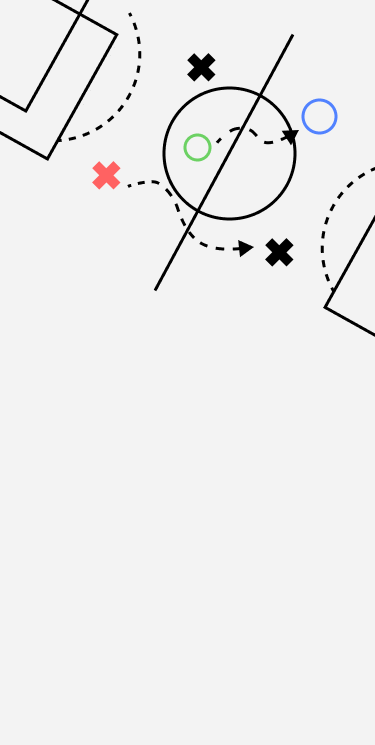
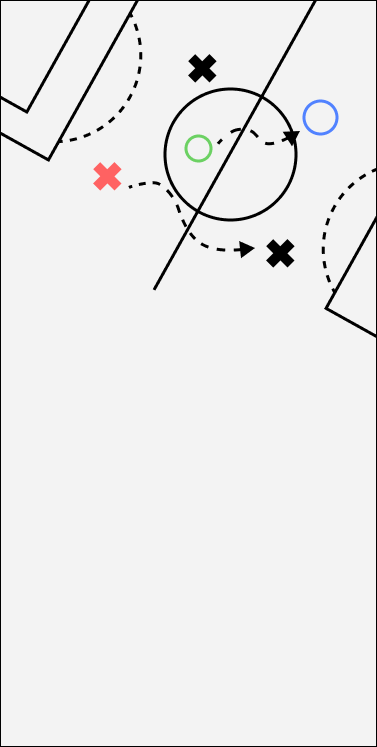
♻ Tactics, Mypage 폴더링 추가 및 세부 수정(35)

diff --git a/screens/MyPagePackage/MyPage.js b/screens/MyPagePackage/MyPage.js
@@ -1,0 +1,140 @@
+import { StatusBar } from "expo-status-bar";
+import BackGround from '../../assets/Back2.png';
+import PrivacyButtonImage from "../../assets/Button5.png";
+import SettingButtonImage from "../../assets/Button6.png";
+import FriendButtonImage from "../../assets/Button7.png";
+import HelpButtonImage from "../../assets/Button8.png";
+import React from "react";
+import styled from "styled-components";
+
+import { Text, View, StyleSheet, Image, TouchableOpacity } from "react-native";
+
+const Container = styled.View`
+  flex: 1;
+  flex-direction: column;
+`;
+
+const BackGroundView = styled.View`
+  ${StyleSheet.absoluteFillObject};
+  z-index: -1;
+`;
+
+const FirstView = styled.View`
+  flex: 1;
+`;
+
+const SecondView = styled.View`
+  flex: 1;
+  flex-direction: column;
+  align-items: center;
+  justify-content: center;
+  margin-top: 200px;
+`;
+
+const ThirdView = styled.View`
+  flex: 1;
+  flex-direction: row;
+  align-items: center;
+  justify-content: center;
+  margin-top : 120px;
+`;
+
+const FourthView = styled.View`
+  flex: 1;
+  flex-direction: row;
+  align-items: center;
+`;
+
+const ForButtonInThirdView = styled.View`
+  flex-direction: column;
+  align-items: center;
+  justify-content: center;
+`;
+
+const TitleText = styled.Text`
+  font-size: 50px;
+  font-weight: 900;
+  color: black;
+  text-decoration-line: underline;
+`;
+
+const BackGroundImage = styled.Image`
+  width: 100%;
+  height: 100%;
+`;
+
+const PrivacyAndSettingButton = styled.TouchableOpacity`
+  padding-vertical: 15px;
+  padding-horizontal: 15px;
+  border-radius: 10px;
+  width: 150px;
+  height: 150px;
+  margin: -10px;
+`;
+
+const FriendAndSettingButton = styled.TouchableOpacity`
+  padding-vertical: 15px;
+  padding-horizontal: 15px;
+  border-radius: 10px;
+  width: 150px;
+  height: 150px;
+  margin: -10px;
+`;
+const ButtonsImage = styled.Image`
+  width: 100%;
+  height: 100%;
+  z-index: 1;
+`;
+
+
+const MyPage = ({ navigation }) => {
+  return (
+    <Container>
+    <StatusBar style="auto" />
+    <BackGroundView>
+      <BackGroundImage source={BackGround} resizeMode={"cover"} />
+    </BackGroundView>
+    <FirstView></FirstView>
+    <SecondView>
+      <TitleText>BANGUSUK</TitleText>
+      <TitleText>FERGUSON</TitleText>
+    </SecondView>
+    <ThirdView>
+      <ForButtonInThirdView>
+        <PrivacyAndSettingButton
+          onPress={() => navigation.navigate("Tactics")}
+        >
+          <ButtonsImage source={PrivacyButtonImage} resizeMode={"contain"} />
+        </PrivacyAndSettingButton>
+        <PrivacyAndSettingButton
+          onPress={() => navigation.navigate("FreeBoard")}
+        >
+          <ButtonsImage
+            source={SettingButtonImage}
+            resizeMode={"contain"}
+          />
+        </PrivacyAndSettingButton>
+      </ForButtonInThirdView>
+      <ForButtonInThirdView>
+        <FriendAndSettingButton
+          onPress={() => navigation.navigate("BangusukTeam")}
+        >
+          <ButtonsImage
+            source={FriendButtonImage}
+            resizeMode={"contain"}
+          />
+        </FriendAndSettingButton>
+        <FriendAndSettingButton
+          onPress={() => navigation.navigate("MyPage")}
+        >
+          <ButtonsImage source={HelpButtonImage} resizeMode={"contain"} />
+        </FriendAndSettingButton>
+      </ForButtonInThirdView>
+    </ThirdView>
+    <FourthView></FourthView>
+  </Container>
+  );
+};
+
+export default MyPage;
+

diff --git a/navigation/Stack.js b/navigation/Stack.js
@@ -6,14 +6,14 @@ import { Feather } from '@expo/vector-icons';
 
 import MainPage from '../screens/MainPage';
 import FreeBoard from '../screens/FreeBoard';
-import MyPage from '../screens/MyPage';
+import MyPage from '../screens/MyPagePackage/MyPage';
 import BanggusukTeam from '../screens/BanggusukTeamPackage/BanggusukTeam';
 import UserPlusBanggusukTeam from '../screens/BanggusukTeamPackage/UserPlusBanggusukTeam';
-import Tactics from '../screens/Tactics';
-import TacticsSearch from '../screens/TacticsSearch';
-import NewTactic from '../screens/NewTactic';
-import MyTactics from '../screens/MyTactics';
-import TacticExample from '../screens/TacticExample';
+import Tactics from '../screens/TacticsPackage/Tactics';
+import TacticsSearch from '../screens/TacticsPackage/TacticsSearch';
+import NewTactic from '../screens/TacticsPackage/NewTactic';
+import MyTactics from '../screens/TacticsPackage/MyTactics';
+import TacticExample from '../screens/TacticsPackage/TacticExample';
 import FreeBoardSearch from '../screens/FreeBoardSearch';
 import MyPosts from '../screens/MyPosts';
 import NewPost from '../screens/NewPost';

diff --git a/screens/TacticsPackage/TacticExample.js b/screens/TacticsPackage/TacticExample.js
@@ -2,14 +2,14 @@ import React, { useState } from "react";
 import { StatusBar } from "expo-status-bar";
 import styled from "styled-components";
 import DropDownPicker from "react-native-dropdown-picker";
-import TacticsBack from "../assets/TacticsBack.png";
+import TacticsBack from "../../assets/TacticsBack.png";
 import { FontAwesome5 } from "@expo/vector-icons";
 import { Picker } from "@react-native-picker/picker";
 import RNPickerSelect from "react-native-picker-select";
 import { Ionicons } from '@expo/vector-icons';
 import { Feather } from '@expo/vector-icons';
 import Entypo from '@expo/vector-icons/Entypo';
-import ProfileImg from '../assets/profileimg.jpg'
+import ProfileImg from '../../assets/profileimg.jpg'
 
 
 

diff --git a/screens/MainPage.js b/screens/MainPage.js
@@ -1,5 +1,5 @@
 import { StatusBar } from 'expo-status-bar';
-import BackGround from '../assets/Back2.png';
+import BackGround from '../assets/Back2.png'
 import TatcticsButtonImage from '../assets/Button1.png';
 import BangusukTeamButtonImage from '../assets/Button2.png';
 import FreeBoardButtonImage from '../assets/Button3.png';
@@ -115,7 +115,7 @@ const MainPage = ({ navigation }) => {
     <Container>
       <StatusBar style="auto" />
       <BackGroundView>
-        <BackGroundImage source={BackGround} resizeMode={'stretch'} />
+        <BackGroundImage source={BackGround} resizeMode={'cover'} />
       </BackGroundView>
       <FirstView></FirstView>
       <SecondView>

diff --git a/screens/TacticsPackage/NewTactic.js b/screens/TacticsPackage/NewTactic.js
@@ -2,7 +2,7 @@ import React, { useState } from "react";
 import { StatusBar } from "expo-status-bar";
 import styled from "styled-components";
 import DropDownPicker from "react-native-dropdown-picker";
-import TacticsBack from "../assets/TacticsBack.png";
+import TacticsBack from "../../assets/TacticsBack.png";
 import { FontAwesome5 } from "@expo/vector-icons";
 
 import {
